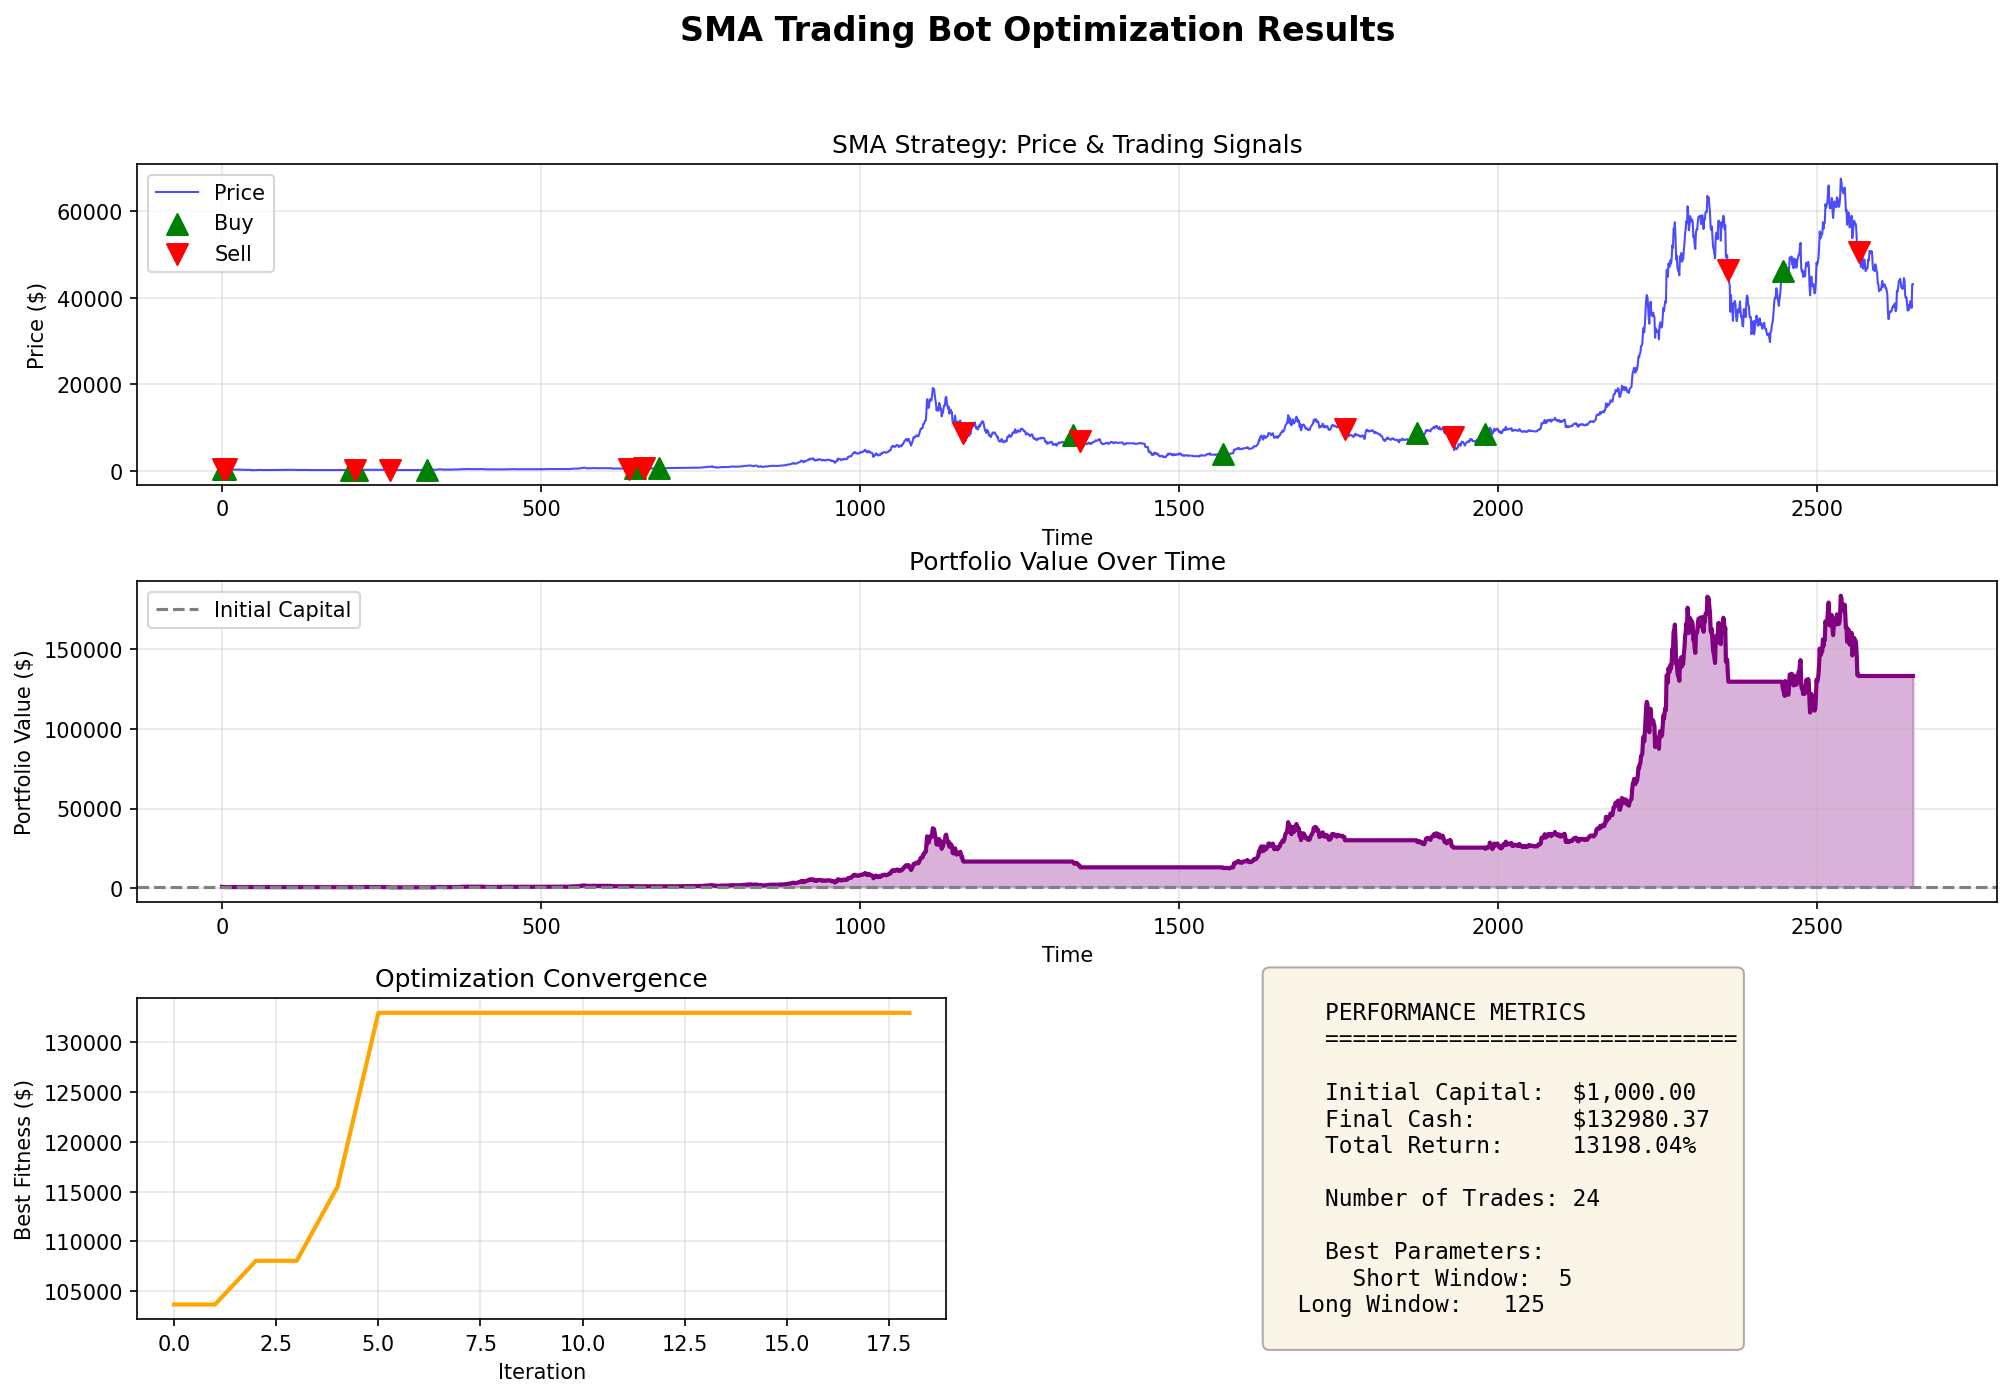
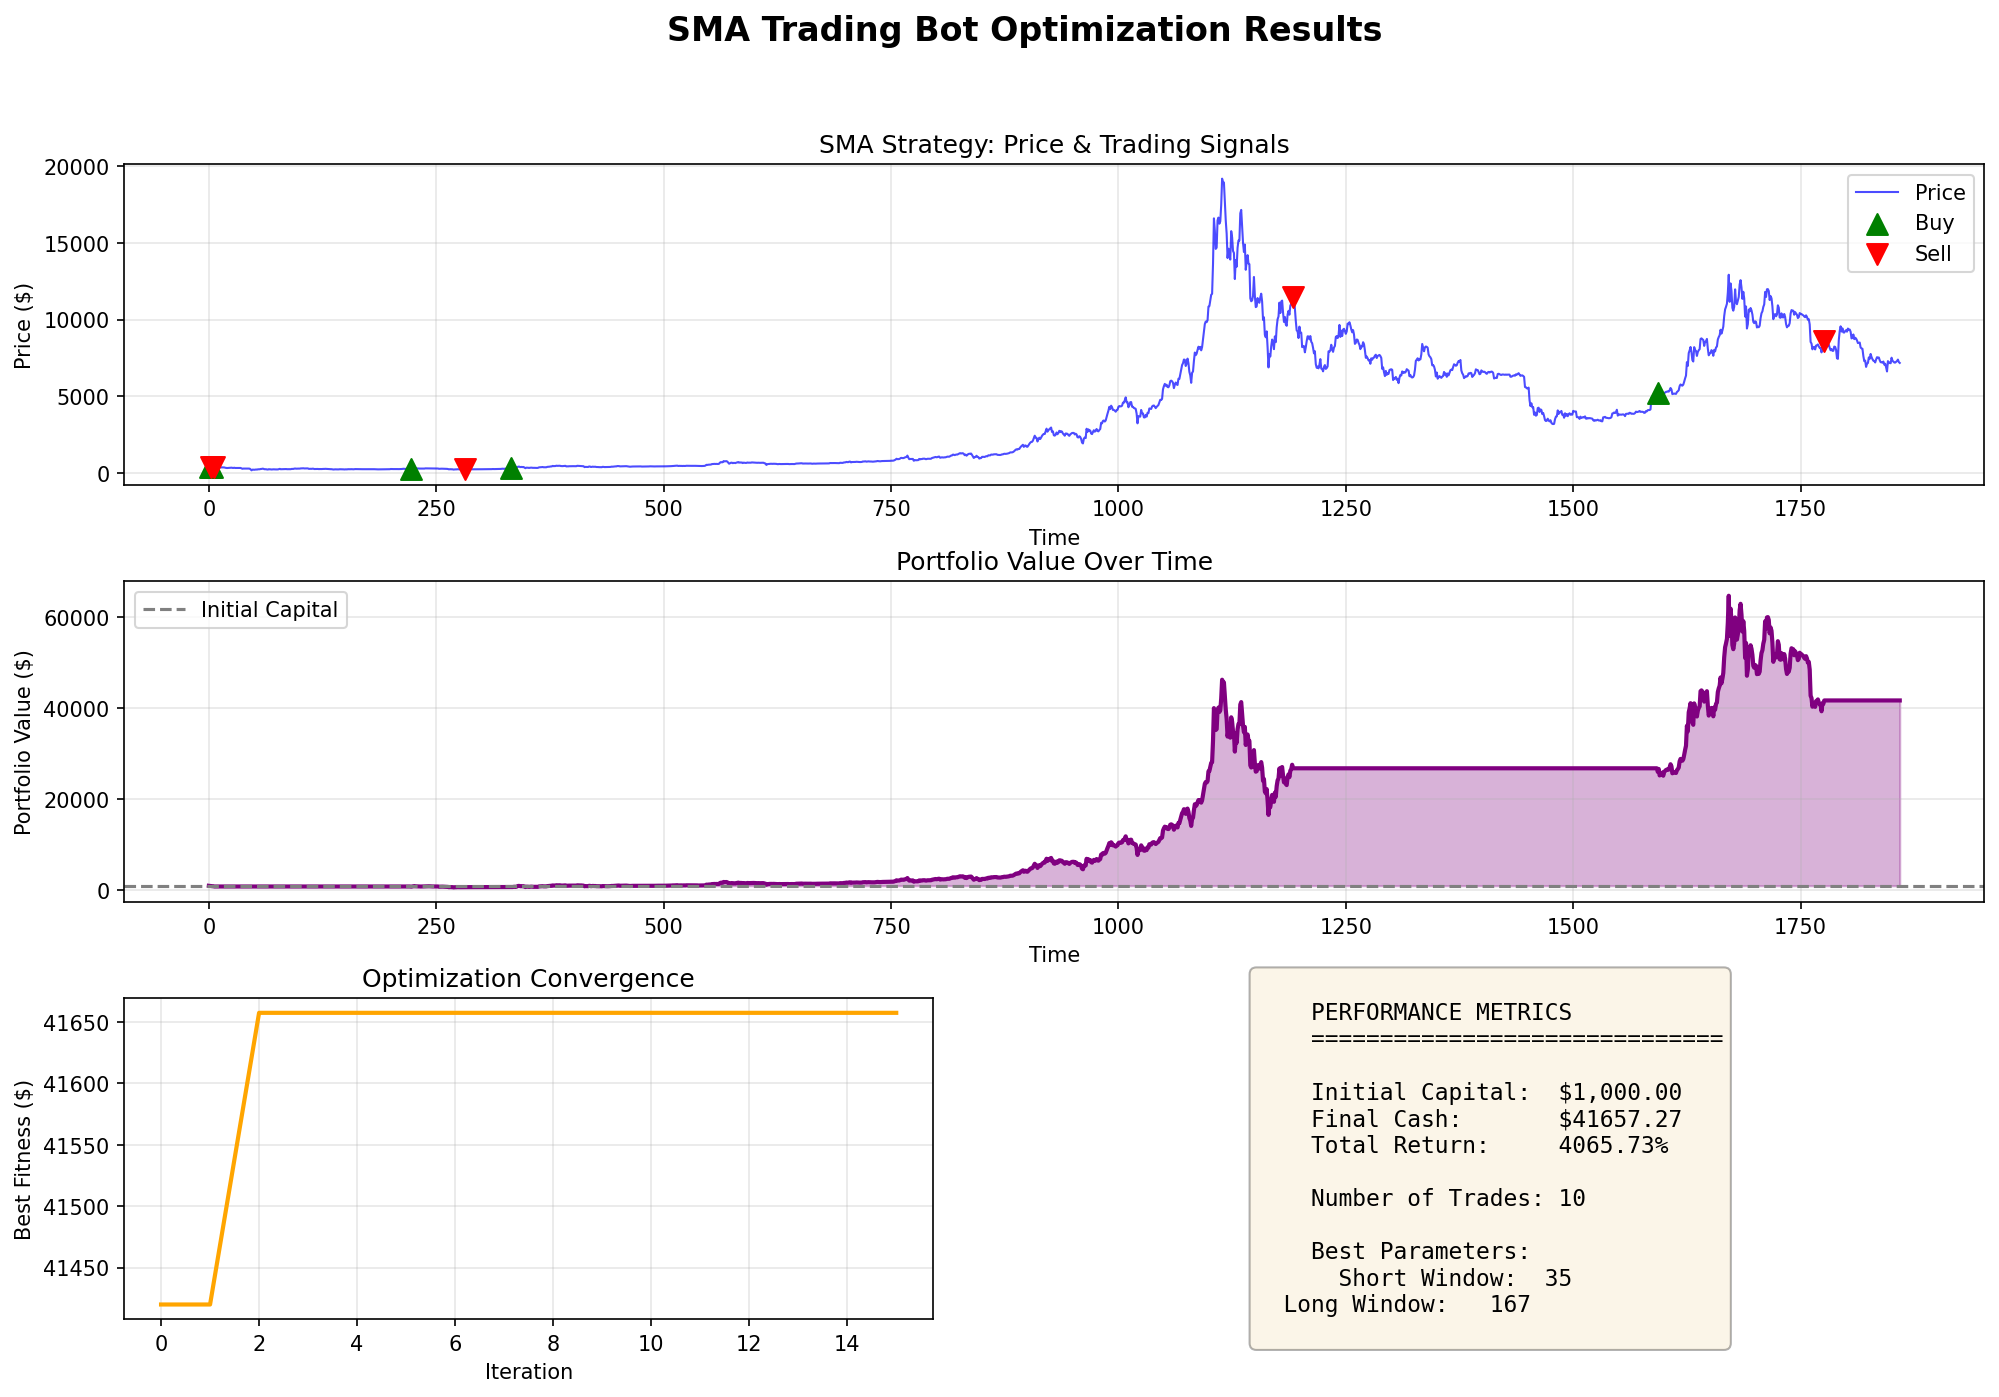
implement test train split logic

diff --git a/main.py b/main.py
@@ -12,22 +12,19 @@ from optimisers import ga
 def load_data(filepath):
     try:
         df = pd.read_csv(filepath)
+        df['date'] = pd.to_datetime(df['date'])
+        df = df.sort_values('date').reset_index(drop=True)  
 
-        if 'close' in df.columns:
-            prices = df['close'].values
-        else:
-            prices = df.iloc[:, 6].values
+        # training data = prices before 2020, testing data = prices after 2020
+        train_mask = df['date'] < '2020-01-01'
+        prices_train = df['close'][train_mask].values
+        prices_test  = df['close'][~train_mask].values
 
-
-        prices = prices[::-1]
-        print(f" Loaded {len(prices)} points")
-        print(f" Start: ${prices[0]:.2f}, End: ${prices[-1]:.2f}")
-        print(f" Return: {(prices[-1]/prices[0] - 1)*100:+.1f}%")
-        return prices
+        return prices_train, prices_test  
 
     except Exception as e:
         print(f"Error: {e}")
-        return None
+        return None, None
 
 
 def run_optimization(prices, strategy_name='SMA'):
@@ -94,20 +91,17 @@ def run_optimization(prices, strategy_name='SMA'):
 
 if __name__ == "__main__":
 
-    prices = load_data('data/BTC-Daily.csv')
+    prices_train, prices_test = load_data('data/BTC-Daily.csv')
 
-    if prices is None or len(prices) < 500:
+    if prices_train is None or len(prices_train) < 500:
         print("Data loading failed!")
-
-
-
 
     print(f"\n{'='*60}")
     print("DIAGNOSTIC: Testing Strategy & Backtest")
     print(f"{'='*60}")
 
     test_strategy = strategies.SMACrossover()
-    test_bot = trading_bot.TradingBot(prices, test_strategy)
+    test_bot = trading_bot.TradingBot(prices_train, test_strategy)
 
     test_cases = [
         [10, 50],
@@ -138,7 +132,10 @@ if __name__ == "__main__":
 
 
     best_params_sma, convergence_sma, bot_sma = run_optimization(
-        prices, strategy_name='SMA'
+        prices_train, strategy_name='SMA'
     )
 
-    visualisation.visualise_results(prices, bot_sma, best_params_sma, convergence_sma, 'SMA')
+    test_bot_sma = trading_bot.TradingBot(prices_test, strategies.SMACrossover())
+    test_result  = test_bot_sma.evaluate(best_params_sma)
+ 
+    visualisation.visualise_results(prices_train, bot_sma, best_params_sma, convergence_sma, 'SMA')
